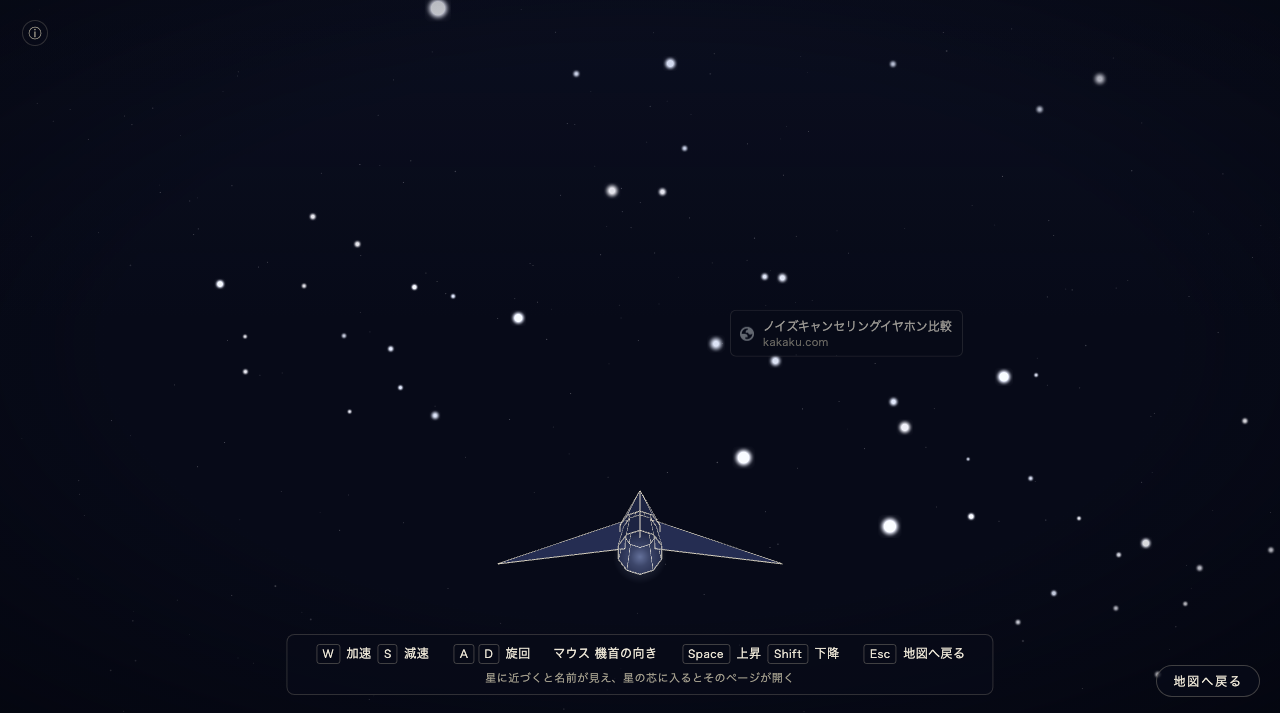
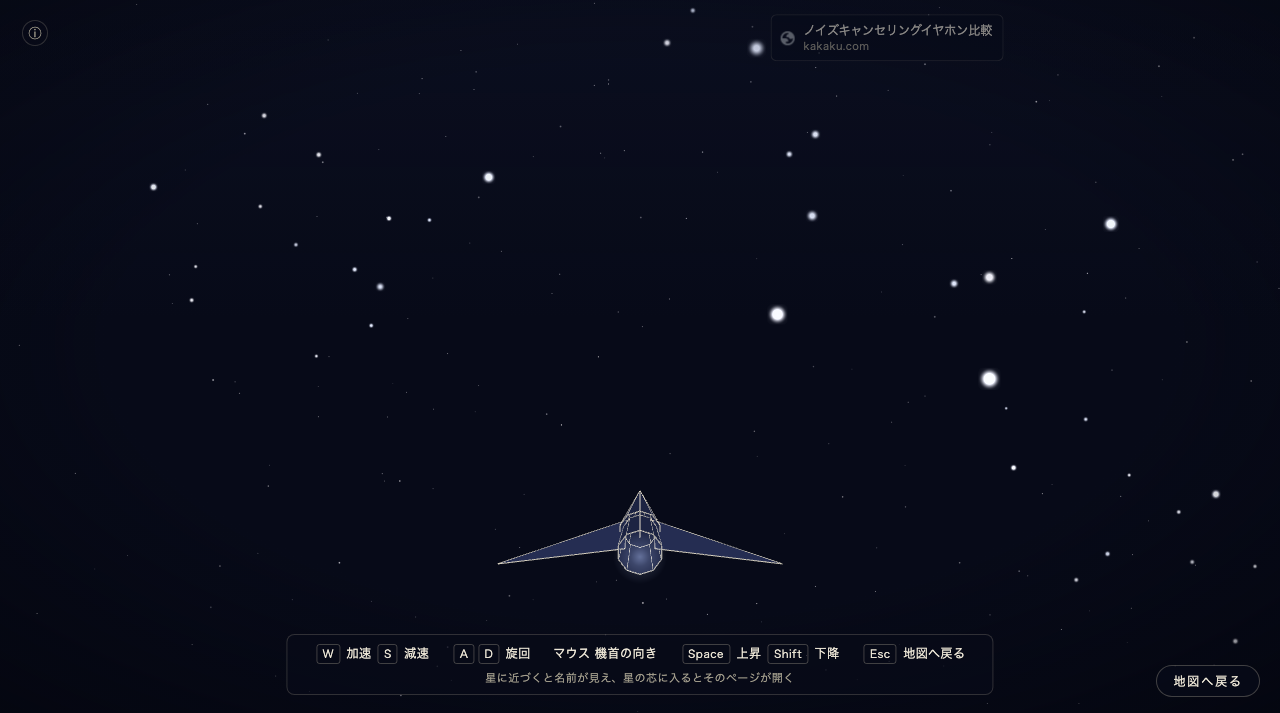
feat(flight): widen flight space fourfold with tuned speeds and a distant parallax sky

diff --git a/src/render/scene.ts b/src/render/scene.ts
@@ -5,17 +5,19 @@ import { layoutExtent } from "../layout";
 import { LabelLayer, type PlacedLabel, type ScreenCircle, type ZoomTier } from "../ui/labels";
 import { Nebulae } from "./nebula";
 import { FLIGHT_MAX_POINT, FLIGHT_SIZE_SCALE, MAP_MAX_POINT, StarField, createBackdrop, nebulaColor, type EmphasisMode, type RenderStar } from "./stars";
-import { Flight, type FlightInput } from "./flight";
+import { FLIGHT_SCALE, Flight, type FlightInput } from "./flight";
 import { createShip } from "./ship";
+import { FlightSky } from "./sky";
 import { FlightWindows, WINDOW_RADIUS, type WindowStar } from "../ui/flight-windows";
 import { flightHeights } from "../layout/lift";
 import { ConstellationLayer, type DrawnConstellation } from "./constellations";
 import type { ConstellationPoint } from "../constellation";
 
-/** 星に入る（SPEC 13 章）：芯の半径、突入の演出の長さ、開いた後の押し戻しと、同じ星に反応しない時間 */
-const STAR_CORE_RADIUS = 0.7;
+/** 星に入る（SPEC 13 章）：芯の半径、突入の演出の長さ、開いた後の押し戻しと、同じ星に反応しない時間。
+ *  半径と押し戻しは、広げた空間（FLIGHT_SCALE 倍）の単位 */
+const STAR_CORE_RADIUS = 0.45 * FLIGHT_SCALE;
 const DIVE_SECONDS = 0.45;
-const PUSH_BACK = 4;
+const PUSH_BACK = 2.5 * FLIGHT_SCALE;
 const ENTRY_COOLDOWN_MS = 4000;
 const CAMERA_FOV = 50;
 
@@ -104,6 +106,7 @@ export class SpaceView {
   private readonly flight = new Flight();
   private readonly flightLook = new THREE.Vector3();
   private readonly ship = createShip();
+  private readonly sky = new FlightSky();
   private readonly windows = new FlightWindows(document.getElementById("flight-windows") ?? document.body);
   private windowStars: WindowStar[] = [];
   /** 星に入る演出の途中。終わるとページを開き、宇宙船を押し戻す */
@@ -251,6 +254,7 @@ export class SpaceView {
 
     addEventListener("resize", this.resize);
     this.scene.add(this.ship.group);
+    this.scene.add(this.sky.object);
     window.addEventListener("mousemove", (event: MouseEvent) => {
       if (!this.flight.active) return;
       this.flightMouse.set(event.clientX / innerWidth * 2 - 1, event.clientY / innerHeight * 2 - 1);
@@ -503,6 +507,9 @@ export class SpaceView {
     this.flightMouse.set(0, 0);
     this.flight.enter(this.camera, this.controls.target.clone(), distance, 3, this.extent);
     this.ship.group.visible = true;
+    // 地図の遠景は広げた空間では近づけてしまうので、飛行中は触れられない背景の星空に替える
+    this.sky.object.visible = true;
+    this.backdrop.visible = false;
     this.onFlightChange?.(true);
     return true;
   }
@@ -517,12 +524,16 @@ export class SpaceView {
 
   /** 出る移り変わりが終わった：地図の操作を戻し、預けていた検索と星座の表示を掛け直す。 */
   private finishFlight(): void {
+    this.field.object.scale.setScalar(1);
+    this.constellations.object.scale.setScalar(1);
     this.controls.target.copy(this.flight.mapTarget());
     this.tilt = 0;
     this.setDistance(this.flight.returnDistance);
     this.controls.enabled = true;
     this.nebulae.object.visible = true;
     this.ship.group.visible = false;
+    this.sky.object.visible = false;
+    this.backdrop.visible = true;
     this.windows.clear();
     this.constellations.setFlight(false);
     this.setFlightMaterial(false);
@@ -548,11 +559,25 @@ export class SpaceView {
     mat.uniforms.uSizeScale.value = on ? FLIGHT_SIZE_SCALE : 1;
   }
 
-  /** 確認用：飛行中の星の 3 次元の位置と、配置から取り直した高さ。 */
+  /** いまの空間の拡大率（地図 1 → 飛行中 FLIGHT_SCALE。立ち上がりと一緒に変わる） */
+  private get spaceScale(): number {
+    return 1 + (FLIGHT_SCALE - 1) * this.flight.lift;
+  }
+
+  /** 星 id の、いま描いている位置（three の座標。空間の拡大率を掛けたもの）。 */
+  private worldOf(id: string, out = new THREE.Vector3()): THREE.Vector3 | null {
+    const p = this.field.position3(id);
+    if (!p) return null;
+    const k = this.spaceScale;
+    return out.set(p.x * k, p.z * k, -p.y * k);
+  }
+
+  /** 確認用：飛行中の星の 3 次元の位置（地図の座標の向きで、広げた空間の単位）。 */
   flightStars(): { id: string; x: number; y: number; z: number }[] {
+    const k = this.spaceScale;
     return this.field.placed.flatMap((star) => {
       const p = this.field.position3(star.id);
-      return p ? [{ id: star.id, ...p }] : [];
+      return p ? [{ id: star.id, x: p.x * k, y: p.y * k, z: p.z * k }] : [];
     });
   }
 
@@ -572,18 +597,21 @@ export class SpaceView {
 
   /** 最後に入った星と宇宙船の距離（確認用） */
   private entryDistance(): number | null {
-    const q = this.lastEntry ? this.field.position3(this.lastEntry) : null;
-    return q ? this.flight.ship.position.distanceTo(new THREE.Vector3(q.x, q.z, -q.y)) : null;
+    const q = this.lastEntry ? this.worldOf(this.lastEntry) : null;
+    return q ? this.flight.ship.position.distanceTo(q) : null;
   }
 
   flightState(): { active: boolean; phase: string; transitioning: boolean; lift: number; nearby: number; windows: string[];
-    diving: boolean; lastEntry: string | null; entryDistance: number | null;
+    diving: boolean; lastEntry: string | null; entryDistance: number | null; scale: number;
     ship: { x: number; y: number; z: number; speed: number; yaw: number; pitch: number } } {
     const ship = this.flight.ship;
     return { active: this.flight.active, phase: this.flight.phase, transitioning: this.flight.transitioning,
       lift: this.flight.lift, nearby: this.windows.nearby, windows: this.windows.visibleIds,
       diving: !!this.dive, lastEntry: this.lastEntry, entryDistance: this.entryDistance(),
-      ship: { x: ship.position.x, y: -ship.position.z, z: ship.position.y, speed: ship.speed, yaw: ship.yaw, pitch: ship.pitch } };
+      scale: FLIGHT_SCALE,
+      // 宇宙船の位置は地図の座標（広げた空間の座標を FLIGHT_SCALE で割ったもの）で返す
+      ship: { x: ship.position.x / FLIGHT_SCALE, y: -ship.position.z / FLIGHT_SCALE, z: ship.position.y / FLIGHT_SCALE,
+        speed: ship.speed, yaw: ship.yaw, pitch: ship.pitch } };
   }
 
   /** 入力を始めたら真上から、やめたら斜めから（SPEC 7 章）。 */
@@ -1010,6 +1038,9 @@ export class SpaceView {
     if (this.dive) this.flight.ship.speed = 0;
     const previous = this.flight.ship.position.clone();
     const { finished } = this.flight.update(dt, this.camera, this.flightLook, input);
+    this.field.object.scale.setScalar(this.spaceScale);
+    this.constellations.object.scale.setScalar(this.spaceScale);
+    this.sky.follow(this.camera);
     if (this.flight.transitioning || finished) {
       // 立ち上がりの途中だけ、星座の線の高さを書き直す（飛んでいる間は変わらない）
       this.constellations.setLift((id) => this.heights.get(id) ?? 0, this.flight.lift);
@@ -1048,9 +1079,7 @@ export class SpaceView {
     let best: { id: string; t: number } | null = null;
     for (const star of this.field.placed) {
       if ((this.entryCooldown.get(star.id) ?? 0) > now) continue;
-      const q = this.field.position3(star.id);
-      if (!q) continue;
-      p.set(q.x, q.z, -q.y);
+      if (!this.worldOf(star.id, p)) continue;
       const t = len2 > 0 ? THREE.MathUtils.clamp(p.clone().sub(a).dot(ab) / len2, 0, 1) : 0;
       const d = a.clone().addScaledVector(ab, t).distanceTo(p);
       if (d < STAR_CORE_RADIUS && (!best || t < best.t)) best = { id: star.id, t };
@@ -1089,17 +1118,18 @@ export class SpaceView {
     const shipPos = this.flight.ship.position;
     const size = this.renderer.getSize(new THREE.Vector2());
     const v = new THREE.Vector3();
+    const w = new THREE.Vector3();
     this.windows.update(dt, this.windowStars,
       (id) => {
-        const p = this.field.position3(id);
-        return p ? Math.hypot(p.x - shipPos.x, p.z - shipPos.y, -p.y - shipPos.z) : Infinity;
+        const p = this.worldOf(id, w);
+        return p ? p.distanceTo(shipPos) : Infinity;
       },
       (id) => {
-        const p = this.field.position3(id);
+        const p = this.worldOf(id, w);
         if (!p) return null;
-        v.set(p.x, p.z, -p.y).project(this.camera);
+        const d = p.distanceTo(shipPos);
+        v.copy(p).project(this.camera);
         if (v.z > 1 || v.z < -1) return null;
-        const d = Math.hypot(p.x - shipPos.x, p.z - shipPos.y, -p.y - shipPos.z);
         return { x: (v.x * 0.5 + 0.5) * size.x, y: (-v.y * 0.5 + 0.5) * size.y,
           near: THREE.MathUtils.clamp(1 - d / WINDOW_RADIUS, 0, 1) };
       });
@@ -1110,14 +1140,13 @@ export class SpaceView {
    * （途中に他の星が入りにくい）。
    */
   flightTeleport(id: string, distance: number): boolean {
-    const p = this.field.position3(id);
+    const point = this.worldOf(id);
     const star = this.labelSource.stars.find((s) => s.id === id);
     const cluster = this.labelSource.clusters.find((c) => c.index === star?.cluster);
-    if (!p || !star || !this.flight.active) return false;
+    if (!point || !star || !this.flight.active) return false;
     let dx = star.x - (cluster?.x ?? 0), dy = star.y - (cluster?.y ?? 0);
     const len = Math.hypot(dx, dy) || 1;
     if (Math.hypot(dx, dy) < 1e-6) { dx = 0; dy = -1; }
-    const point = new THREE.Vector3(p.x, p.z, -p.y);
     const position = point.clone().add(new THREE.Vector3(dx / len, 0, -dy / len).multiplyScalar(distance));
     this.flight.place(position, point);
     return true;
@@ -1125,11 +1154,12 @@ export class SpaceView {
 
   /** 確認用：星 id の、画面上の大きさ（px）。シェーダーと同じ計算。 */
   starScreenSize(id: string): number | null {
-    const p = this.field.position3(id);
+    const p = this.worldOf(id);
     const base = this.field.pointSize(id);
     if (!p || base == null) return null;
     this.camera.updateMatrixWorld();
-    const view = new THREE.Vector3(p.x, p.z, -p.y).applyMatrix4(this.camera.matrixWorldInverse);
+    // 空間の拡大率は星までの距離に効く（シェーダーの modelView に含まれる）。点の基準の大きさ aSize には掛からない
+    const view = p.applyMatrix4(this.camera.matrixWorldInverse);
     const mat = this.field.object.material as THREE.ShaderMaterial;
     const px = base * mat.uniforms.uSizeScale.value * mat.uniforms.uScale.value / Math.max(-view.z, 0.001);
     return THREE.MathUtils.clamp(px, 2, mat.uniforms.uMaxSize.value);
@@ -1245,6 +1275,7 @@ export class SpaceView {
   };
 
   private setPointScale(scale: number): void {
+    this.sky.setScale(scale);
     for (const obj of [this.backdrop, this.field.object]) {
       const mat = obj.material as THREE.ShaderMaterial;
       if (mat?.uniforms?.uScale) mat.uniforms.uScale.value = scale;

diff --git a/src/render/sky.ts b/src/render/sky.ts
@@ -1,0 +1,68 @@
+import * as THREE from "three";
+import { createStarMaterial } from "./stars";
+
+/**
+ * 飛行中だけ見える、遠くの背景の星空（SPEC 13 章）。ブックマークではなく、触れられない。
+ *
+ * 半径の違う 3 つの殻に星を散らし、それぞれをカメラに一部だけついて来させる（視差）。
+ * 遠い殻ほどカメラとほぼ一緒に動くので近づけず、近い殻ほど少しずつ流れて見え、奥行きと飛んでいる感覚が出る。
+ * 色は白〜淡いクリーム（`docs/DESIGN.md`）。
+ */
+const LAYERS = [
+  { count: 900, radius: 1400, follow: 0.88, size: 3.6, alpha: [0.2, 0.55] },
+  { count: 700, radius: 2400, follow: 0.95, size: 5.2, alpha: [0.12, 0.4] },
+  { count: 600, radius: 3800, follow: 0.99, size: 7.0, alpha: [0.08, 0.28] },
+];
+
+export class FlightSky {
+  readonly object = new THREE.Group();
+  private readonly layers: { points: THREE.Points; follow: number }[] = [];
+
+  constructor(seed = 11) {
+    let s = seed;
+    const rnd = () => ((s = (Math.imul(s, 1664525) + 1013904223) >>> 0) / 4294967296);
+    for (const layer of LAYERS) {
+      const pos = new Float32Array(layer.count * 3);
+      const size = new Float32Array(layer.count);
+      const color = new Float32Array(layer.count * 3);
+      const alpha = new Float32Array(layer.count);
+      for (let i = 0; i < layer.count; i++) {
+        const th = rnd() * Math.PI * 2;
+        const ph = Math.acos(2 * rnd() - 1);
+        const r = layer.radius * (0.9 + rnd() * 0.2);
+        pos[i * 3] = r * Math.sin(ph) * Math.cos(th);
+        pos[i * 3 + 1] = r * Math.cos(ph);
+        pos[i * 3 + 2] = r * Math.sin(ph) * Math.sin(th);
+        size[i] = layer.size * (0.5 + rnd());
+        const tint = 0.8 + rnd() * 0.2;
+        const warm = rnd() * 0.06;
+        color[i * 3] = tint;
+        color[i * 3 + 1] = tint * (0.98 - warm * 0.3);
+        color[i * 3 + 2] = tint * (0.96 - warm);
+        alpha[i] = layer.alpha[0] + rnd() * (layer.alpha[1] - layer.alpha[0]);
+      }
+      const geom = new THREE.BufferGeometry();
+      geom.setAttribute("position", new THREE.BufferAttribute(pos, 3));
+      geom.setAttribute("aSize", new THREE.BufferAttribute(size, 1));
+      geom.setAttribute("aColor", new THREE.BufferAttribute(color, 3));
+      geom.setAttribute("aAlpha", new THREE.BufferAttribute(alpha, 1));
+      const material = createStarMaterial();
+      material.uniforms.uMaxSize.value = 3;
+      const points = new THREE.Points(geom, material);
+      points.frustumCulled = false;
+      this.layers.push({ points, follow: layer.follow });
+      this.object.add(points);
+    }
+    this.object.visible = false;
+  }
+
+  /** 画面の大きさの係数（SpaceView の resize から） */
+  setScale(scale: number): void {
+    for (const { points } of this.layers) (points.material as THREE.ShaderMaterial).uniforms.uScale.value = scale;
+  }
+
+  /** 殻をカメラに一部だけついて来させる（遠いほどよくついて来る＝近づけない）。 */
+  follow(camera: THREE.Camera): void {
+    for (const { points, follow } of this.layers) points.position.copy(camera.position).multiplyScalar(follow);
+  }
+}

diff --git a/src/render/flight.ts b/src/render/flight.ts
@@ -8,6 +8,13 @@ import * as THREE from "three";
  * 機体を横に傾ける回転（ロール）は入れない（酔いにくくするため）。
  */
 
+/**
+ * 飛行モードの空間は、地図の座標（x・y と高さ）を FLIGHT_SCALE 倍に広げる（並びと高さの相対関係は保つ）。
+ * 星と星座の層は描画の拡大率で広げ、宇宙船とカメラはこの広げた空間（世界の座標）で動く。
+ * 地図に戻るときは FLIGHT_SCALE で割って、地図の座標に戻す。
+ */
+export const FLIGHT_SCALE = 4;
+
 /** 入る・出るの移り変わりにかける時間（星の立ち上がりとカメラの移動を同時に行う） */
 const ENTER_SECONDS = 1.4;
 const LEAVE_SECONDS = 1.2;
@@ -102,10 +109,12 @@ export class Flight {
    */
   enter(camera: THREE.PerspectiveCamera, mapTarget: THREE.Vector3, mapDistance: number, height: number, extent: number): void {
     this.mapDistance = mapDistance;
-    this.maxSpeed = THREE.MathUtils.clamp(extent * 0.2, 8, 30);
-    this.bound = extent * 2;
-    this.ceiling = Math.max(40, extent * 0.6);
-    this.ship.position.set(mapTarget.x, height, mapTarget.z);
+    // 目安：宇宙の端から端（広げた空間の直径）を 30 秒ほど、星団の中を数秒で抜ける速さ
+    const world = extent * FLIGHT_SCALE;
+    this.maxSpeed = THREE.MathUtils.clamp((world * 2) / 30, 10, 120);
+    this.bound = world * 1.5;
+    this.ceiling = Math.max(40, world * 0.5);
+    this.ship.position.set(mapTarget.x * FLIGHT_SCALE, height, mapTarget.z * FLIGHT_SCALE);
     this.startPosition.copy(this.ship.position);
     this.reset();
     this.fromPosition.copy(camera.position);
@@ -145,8 +154,9 @@ export class Flight {
   private steer(dt: number, input: FlightInput): void {
     const ship = this.ship;
     // 加速・減速
-    if (input.thrust > 0) ship.speed += this.maxSpeed * 0.8 * dt;
-    if (input.thrust < 0) ship.speed -= this.maxSpeed * 1.5 * dt;
+    // 最高速度まで約 2 秒で加速し、約 1 秒で止まる
+    if (input.thrust > 0) ship.speed += this.maxSpeed * 0.5 * dt;
+    if (input.thrust < 0) ship.speed -= this.maxSpeed * 1.0 * dt;
     ship.speed = THREE.MathUtils.clamp(ship.speed, 0, this.maxSpeed);
     // 旋回：キーとマウスの左右を合わせ、上限を付けて、なめらかに
     const wanted = THREE.MathUtils.clamp(
@@ -184,9 +194,9 @@ export class Flight {
     this.elapsed = 0;
   }
 
-  /** 出た後に地図が見る点（宇宙船の真下の、地図の平面上の点）と距離。 */
+  /** 出た後に地図が見る点（宇宙船の真下の、地図の平面上の点。地図の座標に戻す）。 */
   mapTarget(): THREE.Vector3 {
-    return new THREE.Vector3(this.ship.position.x, 0, this.ship.position.z);
+    return new THREE.Vector3(this.ship.position.x / FLIGHT_SCALE, 0, this.ship.position.z / FLIGHT_SCALE);
   }
 
   get returnDistance(): number {

diff --git a/src/ui/flight-windows.ts b/src/ui/flight-windows.ts
@@ -6,7 +6,10 @@
  * - アイコンは拡張機能の `_favicon`（`chrome-extension://…/_favicon/?pageUrl=…`）から得る。外部には取りに行かない。
  *   初めて窓を開くときに読み込み、読み込んだ要素は星ごとに使い回す。拡張機能の外（開発サーバー）ではドメインの頭文字で代える。
  */
-export const WINDOW_RADIUS = 9;
+import { FLIGHT_SCALE } from "../render/flight";
+
+/** 窓を開く距離（広げた空間の単位。地図の座標で 8 に当たる。星の間隔の約 4 つ分） */
+export const WINDOW_RADIUS = 8 * FLIGHT_SCALE;
 export const MAX_WINDOWS = 6;
 const DECIDE_SECONDS = 0.12;
 

diff --git a/src/render/stars.ts b/src/render/stars.ts
@@ -56,7 +56,7 @@ void main() {
 export const MAP_MAX_POINT = 12;
 export const FLIGHT_MAX_POINT = 64;
 /** 飛行中の星の大きさの係数（地図の大きさの値を、近くから見る前提に縮める） */
-export const FLIGHT_SIZE_SCALE = 0.2;
+export const FLIGHT_SIZE_SCALE = 0.55;
 
 const FRAG = /* glsl */ `
 varying float vAlpha;

diff --git a/docs/HANDOFF.md b/docs/HANDOFF.md
@@ -97,6 +97,30 @@
 - 検索の軌道の星は、地図では `StarField` のばね（x・y）で動いている。立体の軌道は高さ（y）も動かす必要があるので、
   `StarField` に立体の目標位置を持たせるか、飛行中だけ別の位置の書き方をする。
 
+### 段階 3a の調整（実際に触った感想から）— 作業中
+
+星に入ったときの演出は変えない。小段階ごとにコミットし、この表を更新する。
+
+| 小段階 | 状態 | 内容 |
+|---|---|---|
+| A. 空間を広くする | **完了** | 飛行の空間を地図の 4 倍（`FLIGHT_SCALE`）に。速さ・窓・芯を合わせ、遠くに触れられない背景の星空 |
+| B. 星雲と星団名 | 未着手 | 星団ごとの淡い藍の星雲の雲、遠くから標識のように見える星団名（近づくと薄く） |
+| C. 星の色と明るさ | 未着手 | 「最後に触れた日」で色（青白 → 橙）と明るさ。`setAppearance` を使う。地図と飛行の両方 |
+| D. favicon が無いとき | 未着手 | 既定のアイコン（地球儀）を判定し、ドメインの頭文字の紋章に替える |
+| E. 操作の説明 | 未着手 | 入って約 10 秒で薄く小さくし、窓や星に重ならないように |
+
+**A で入れたもの**
+- `FLIGHT_SCALE = 4`（`src/render/flight.ts`）。星と星座の層は `object.scale` で広げる（立ち上がりと一緒に 1 → 4 倍）。
+  位置の保存データも地図の座標も変えない。宇宙船・カメラ・当たり判定・窓は広げた空間（世界の座標）で動き、
+  星の位置は `SpaceView.worldOf(id)` 一か所で求める。地図に戻るときは宇宙船の位置を 4 で割る（`Flight.mapTarget()`）。
+- 速さ：最高速度＝広げた空間の直径 ÷ 30 秒（10〜120）。約 2 秒で最高速度、約 1 秒で止まる。サンプル 156 件で最高 16/秒、
+  星団（直径約 70）を抜けるのに約 4 秒。飛べる範囲は広げた空間の 1.5 倍。
+- 窓を開く距離は地図の 8 に当たる距離（32）、星の芯の半径は 0.45×4、押し戻しは 2.5×4。飛行中の星の大きさの係数は 0.55。
+- 遠くの背景の星空 `src/render/sky.ts`（`FlightSky`）：半径 1400 / 2400 / 3800 の 3 つの殻。それぞれカメラに 88% / 95% / 99%
+  ついて来させる（近づけず、少しずつ流れて見える）。飛行中は地図の遠景（近づけてしまう）を隠して、こちらに替える。
+- 確認：x・y・z が地図の座標の 4 倍と一致（実装前は倍率 1 で NG）。瞬間移動の距離は倍率に合わせた。
+  `flightState()` の `ship` は地図の座標、`scale` は倍率。
+
 ### 残りのタスク（優先順・2026-09-26 に組み直し）
 
 詳細と完了条件は `docs/PLAN.md` の「計画の変更」以降、飛行モードの仕様は `docs/SPEC.md` 13 章。
